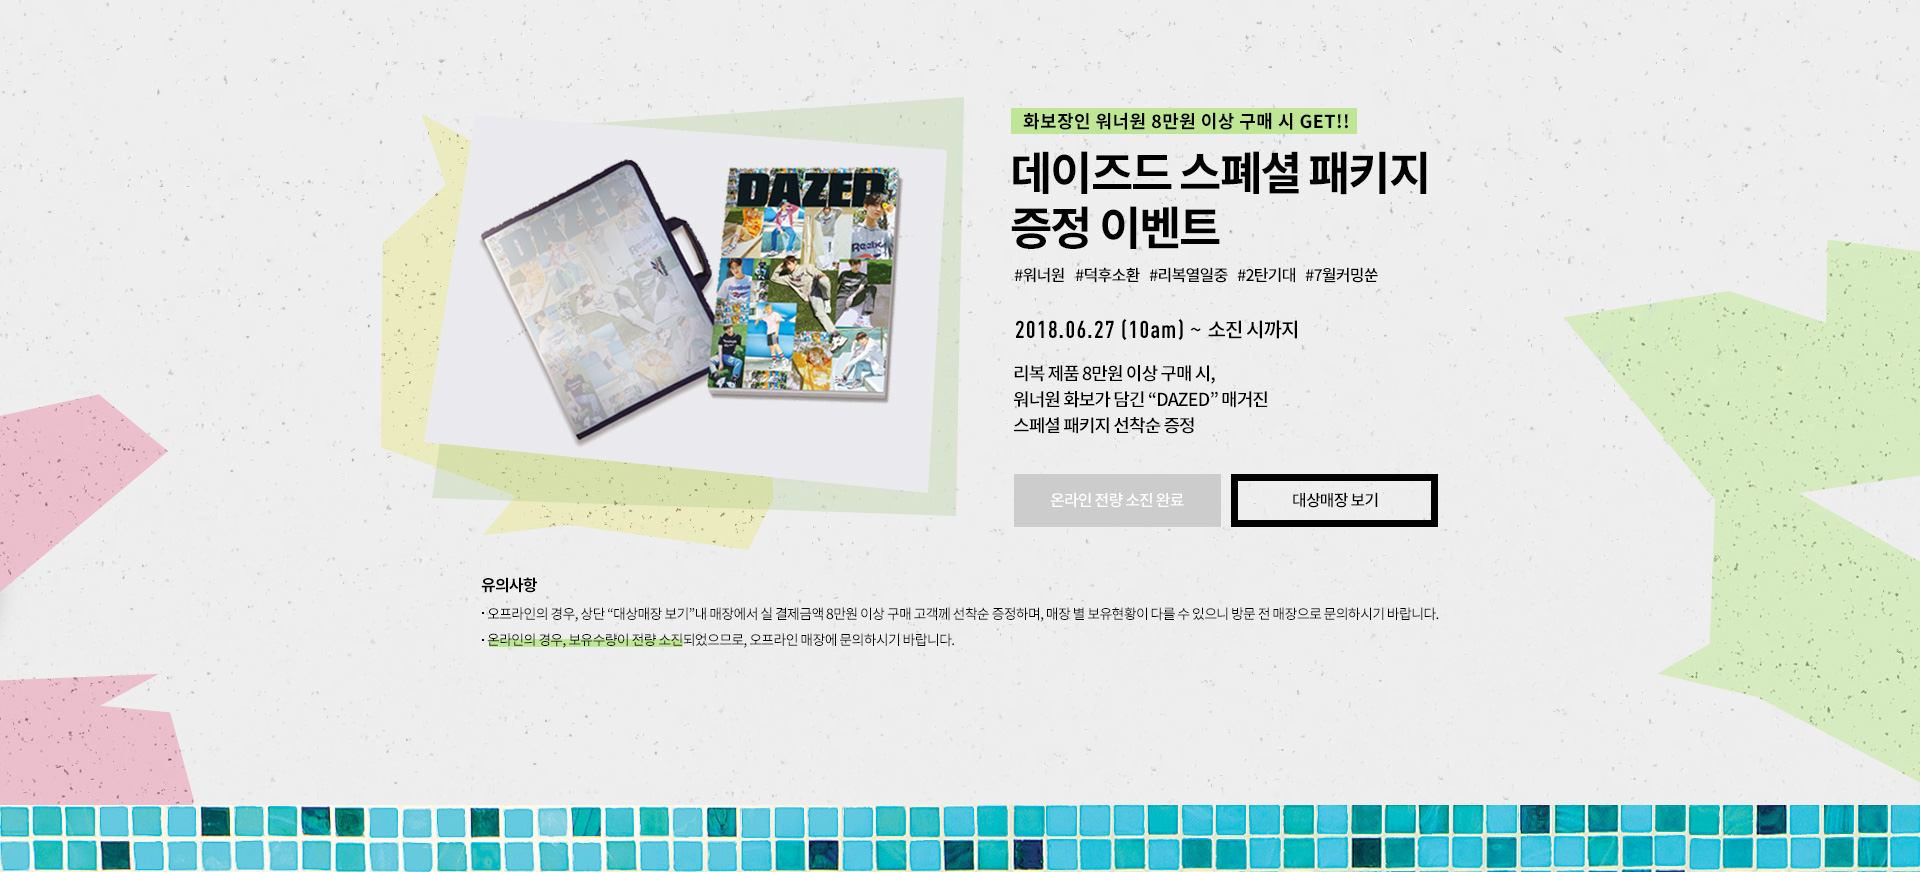
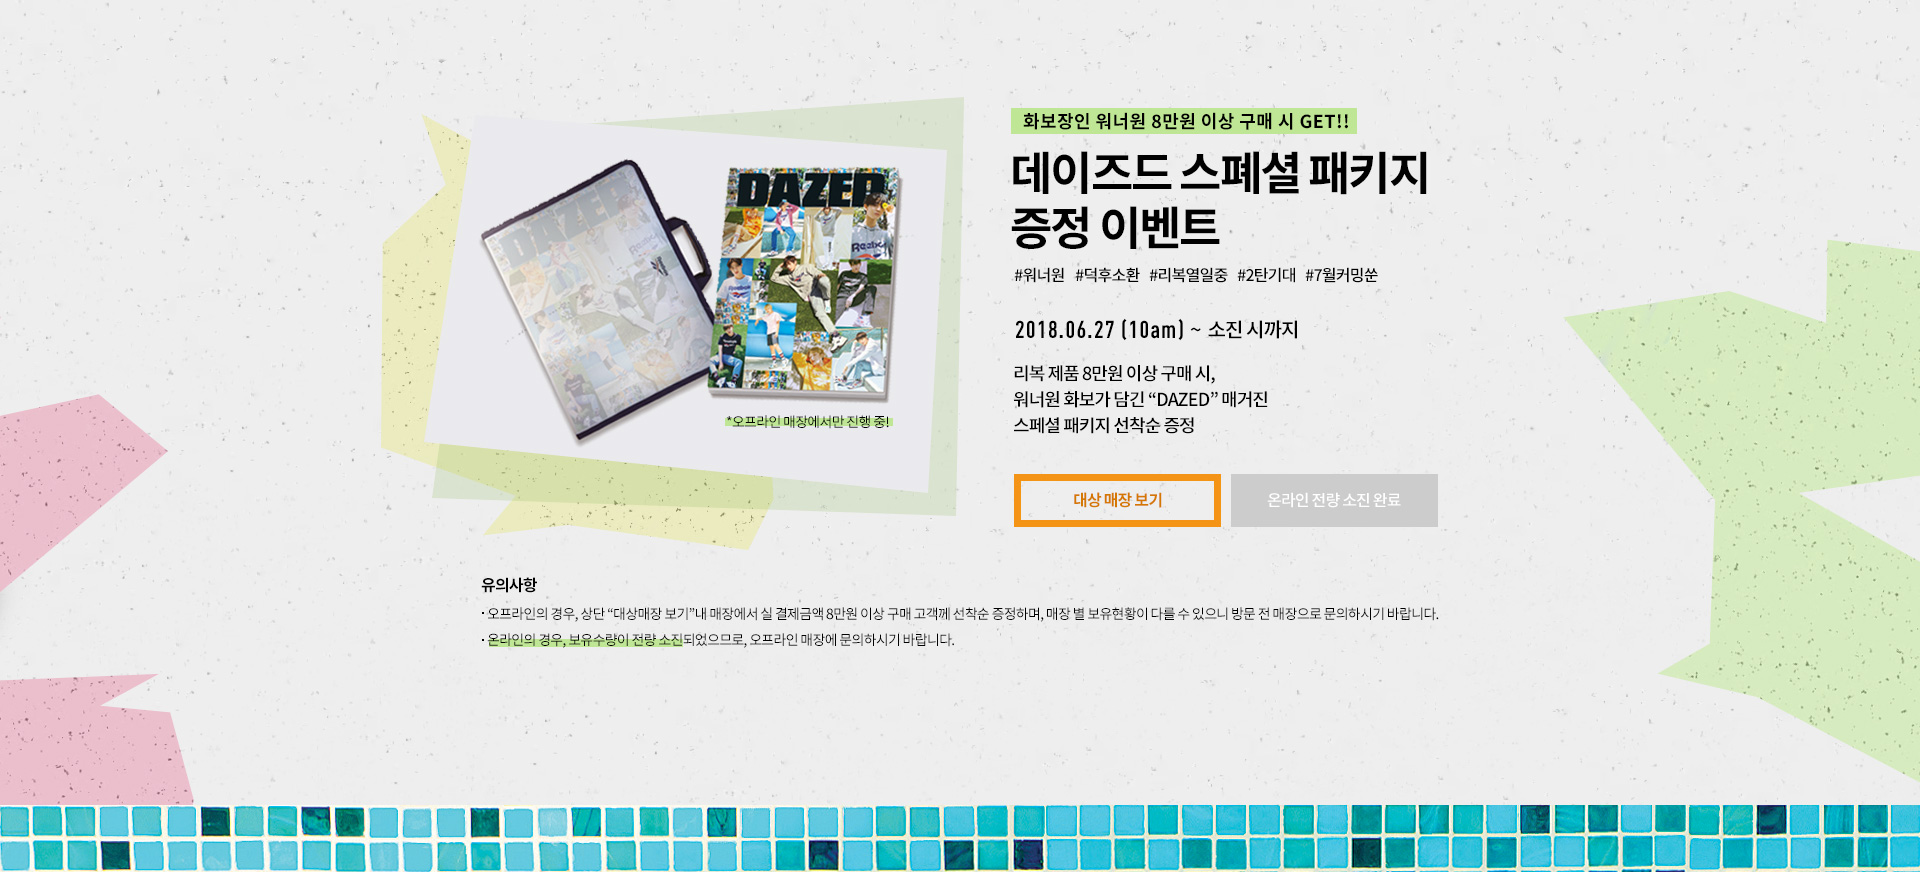
워너원 이벤트 종료 재수정

Changed region(s): [[0.5312, 0.5264, 0.75, 0.6193], [0.375, 0.4644, 0.4688, 0.4954]]

diff --git a/app/html/reebok/event/about/campaign/wannaone/180626/build/index.html b/app/html/reebok/event/about/campaign/wannaone/180626/build/index.html
@@ -591,8 +591,8 @@
                             <img src="/images/reebok/event/about/wannaone/180626/event_bnn_end.jpg" alt="" usemap="#map1">
                             <map name="map1" name="map1">
                                 <!-- <area onfocus=this.blur() shape="rect" coords="927,474,1134,527" href="http://shop.reebok.co.kr/RPF070801.action?pageNo=636" alt=""> -->
-                                <area onfocus=this.blur() shape="rect" coords="927,474,1134,527" href="javascript:void(0)" alt="">
-                                <area onfocus=this.blur() shape="rect" coords="1145,474,1352,527" href="http://shop.adidas.co.kr/upload/storelist/index.html?WannaOne_store_list" alt="대상매장보기" target="_blank">
+                                <area onfocus=this.blur() shape="rect" coords="927,474,1134,527"  href="http://shop.adidas.co.kr/upload/storelist/index.html?WannaOne_store_list" alt="대상매장보기" target="_blank">
+                                <area onfocus=this.blur() shape="rect" coords="1145,474,1352,527" href="javascript:void(0)"  >
                             </map>
                         </div>
                     </div>

diff --git a/app/html/reebok/event/about/campaign/wannaone/180626/index.html b/app/html/reebok/event/about/campaign/wannaone/180626/index.html
@@ -589,8 +589,8 @@
                             <img src="/images/reebok/event/about/wannaone/180626/event_bnn_end.jpg" alt="" usemap="#map1">
                             <map name="map1" name="map1">
                                 <!-- <area onfocus=this.blur() shape="rect" coords="927,474,1134,527" href="http://shop.reebok.co.kr/RPF070801.action?pageNo=636" alt=""> -->
-                                <area onfocus=this.blur() shape="rect" coords="927,474,1134,527" href="javascript:void(0)" alt="">
-                                <area onfocus=this.blur() shape="rect" coords="1145,474,1352,527" href="http://shop.adidas.co.kr/upload/storelist/index.html?WannaOne_store_list" alt="대상매장보기" target="_blank">
+                                <area onfocus=this.blur() shape="rect" coords="927,474,1134,527"  href="http://shop.adidas.co.kr/upload/storelist/index.html?WannaOne_store_list" alt="대상매장보기" target="_blank">
+                                <area onfocus=this.blur() shape="rect" coords="1145,474,1352,527" href="javascript:void(0)"  >
                             </map>
                         </div>
                     </div>
